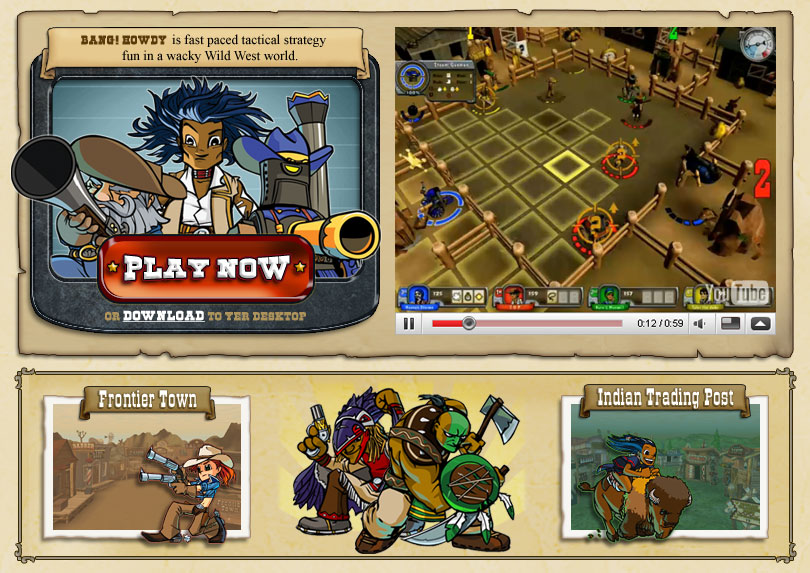
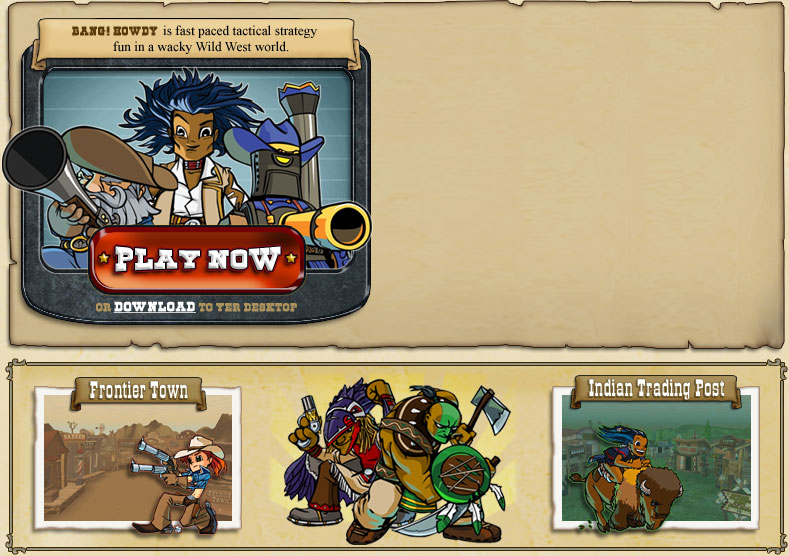
Adjust button positions.

diff --git a/pages/css/index.css b/pages/css/index.css
@@ -10,18 +10,26 @@
 	margin: 0px;
 	padding:0px;
 	width: 800px;
-	height: 565px;
+	height: 573px;
 }
 
 /* -------------------------------------------------
    LINKS
 ------------------------------------------------- */
+#video {
+    position: absolute;
+    width: 381px;
+    height: 308px;
+    top: 27px;
+    left: 395px;
+}
+
 #linkplayB a {
   	position: absolute;
  	width: 225px;
   	height: 77px;
-  	top: 284px;
-  	left: 119px;
+  	top: 230px;
+  	left: 94px;
   	margin: 0px;
   	padding: 0px;
   	text-decoration: none;
@@ -42,8 +50,8 @@ a#btnplayB:hover {
   	position: absolute;
  	width: 84px;
   	height: 17px;
-  	top: 377px;
-  	left: 151px;
+  	top: 307px;
+  	left: 122px;
   	margin: 0px;
   	padding: 0px;
   	text-decoration: none;
@@ -63,8 +71,8 @@ a#btndl:hover {
   	position: absolute;
  	width: 218px;
   	height: 167px;
-  	top: 58px;
-  	left: 553px;
+  	top: 383px;
+  	left: 38px;
   	margin: 0px;
   	padding: 0px;
   	text-decoration: none;
@@ -84,8 +92,8 @@ a#btnfrontier:hover {
   	position: absolute;
  	width: 218px;
   	height: 167px;
-  	top: 237px;
-  	left: 553px;
+  	top: 383px;
+  	left: 555px;
   	margin: 0px;
   	padding: 0px;
   	text-decoration: none;

diff --git a/pages/index.html b/pages/index.html
@@ -19,12 +19,12 @@
             <i>Indian Trading Post</i></a>
     </div>
     <div id="video">
-        <object width="425" height="344">
+        <object width="381" height="301">
             <param name="movie" value="http://www.youtube.com/v/LYsOfRbmJzE&amp;hl=en&amp;fs=1&amp;ap=%2526fmt%3D18"></param>
             <param name="allowFullScreen" value="true"></param>
             <param name="allowscriptaccess" value="always"></param>
             <embed src="http://www.youtube.com/v/LYsOfRbmJzE&amp;hl=en&amp;fs=1&amp;ap=%2526fmt%3D18" type="application/x-shockwave-flash" 
-            allowscriptaccess="always" allowfullscreen="true" width="425" height="344"></embed>
+            allowscriptaccess="always" allowfullscreen="true" width="381" height="301"></embed>
         </object>
     </div>
 

diff --git a/pages/newsletter/feb2008.html b/pages/newsletter/feb2008.html
@@ -18,7 +18,8 @@
         </div>
         
         <!-- header image -->
-        <h1><img src="/images/newsletter/bang_newsletter_header.png" alt="Bang Howdy" /></h1>
+        <h1><a href="http://www.banghowdy.com"><img src="/images/newsletter/bang_newsletter_header.png" 
+            alt="Bang Howdy" /></a></h1>
         
         <div class="unsubscribe">
             <unsubscribe>Unsubscribe</unsubscribe> and we won't be bugging you no more.
@@ -38,8 +39,6 @@
             <p>We made several 
             <a href="http://forums.banghowdy.com/townhall/mvnforum/viewthread?thread=5307">exciting 
             changes</a> to Bang that we hope you'll enjoy. These include: </p>
-            
-            <br style="clear:both;" />
         </div>
         
         <!-- news section -->

diff --git a/pages/css/newsletter.css b/pages/css/newsletter.css
@@ -15,6 +15,10 @@
         font-size: 16px;
     }
     
+    a img {
+        border: none;
+    }
+    
     .content {
         background-color: #FFFFFF;
         width: 570px;
@@ -63,13 +67,14 @@
     .news_section {
         border-top: 1px solid #DBDBDB;
         margin-bottom: 20px;
+        clear: both;
     }
     
     h2 {
         color: #760507;
         font-family: Georgia, "Times New Roman", serif;
         font-size: 26px;
-        margin: 20px 0;
+        margin: 10px 0 20px 0;
     }
     
     p {
